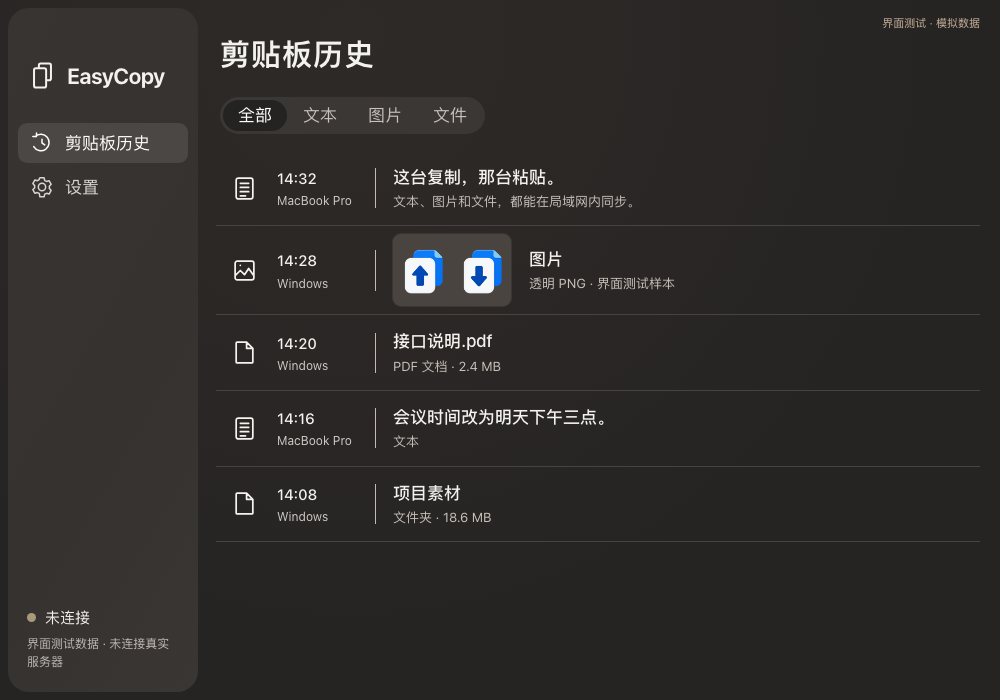
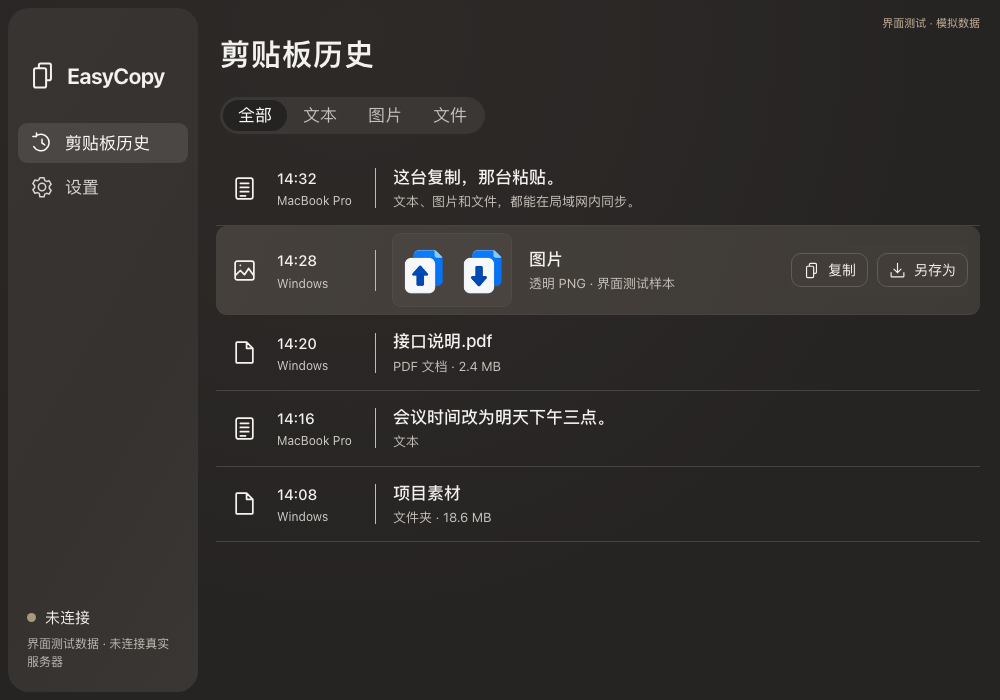
更新官网界面展示

Changed region(s): [[0.217, 0.3, 0.992, 0.45]]

diff --git a/site/style.css b/site/style.css
@@ -22,8 +22,8 @@ a:focus-visible,button:focus-visible,summary:focus-visible { outline:3px solid v
 .navigation nav { display:flex; align-items:center; gap:30px; margin-left:auto; font-size:14px; font-weight:550; }
 .navigation nav a { padding-block:12px; }
 .navigation nav a:hover,.site-footer a:hover { color:var(--accent); text-decoration:underline; text-underline-offset:5px; }
-.theme-toggle { width:36px; height:36px; display:grid; place-items:center; padding:0; border:1px solid var(--line); border-radius:50%; color:var(--text); background:transparent; font-size:23px; cursor:pointer; flex-shrink:0; }
-.theme-toggle:hover { background:var(--soft); }
+.theme-toggle { width:36px; height:36px; display:grid; place-items:center; padding:0; border:0; color:var(--text); background:transparent; font-size:23px; cursor:pointer; flex-shrink:0; }
+.theme-toggle:hover { opacity:.7; }
 .hero { display:grid; grid-template-columns:.86fr 1.14fr; align-items:center; gap:48px; padding-block:82px 72px; }
 .eyebrow { color:var(--accent); font-size:12px; font-weight:650; letter-spacing:2.2px; margin-bottom:24px; }
 h1 { font-size:clamp(42px,4.5vw,64px); line-height:1.22; letter-spacing:-2.4px; font-weight:650; }
